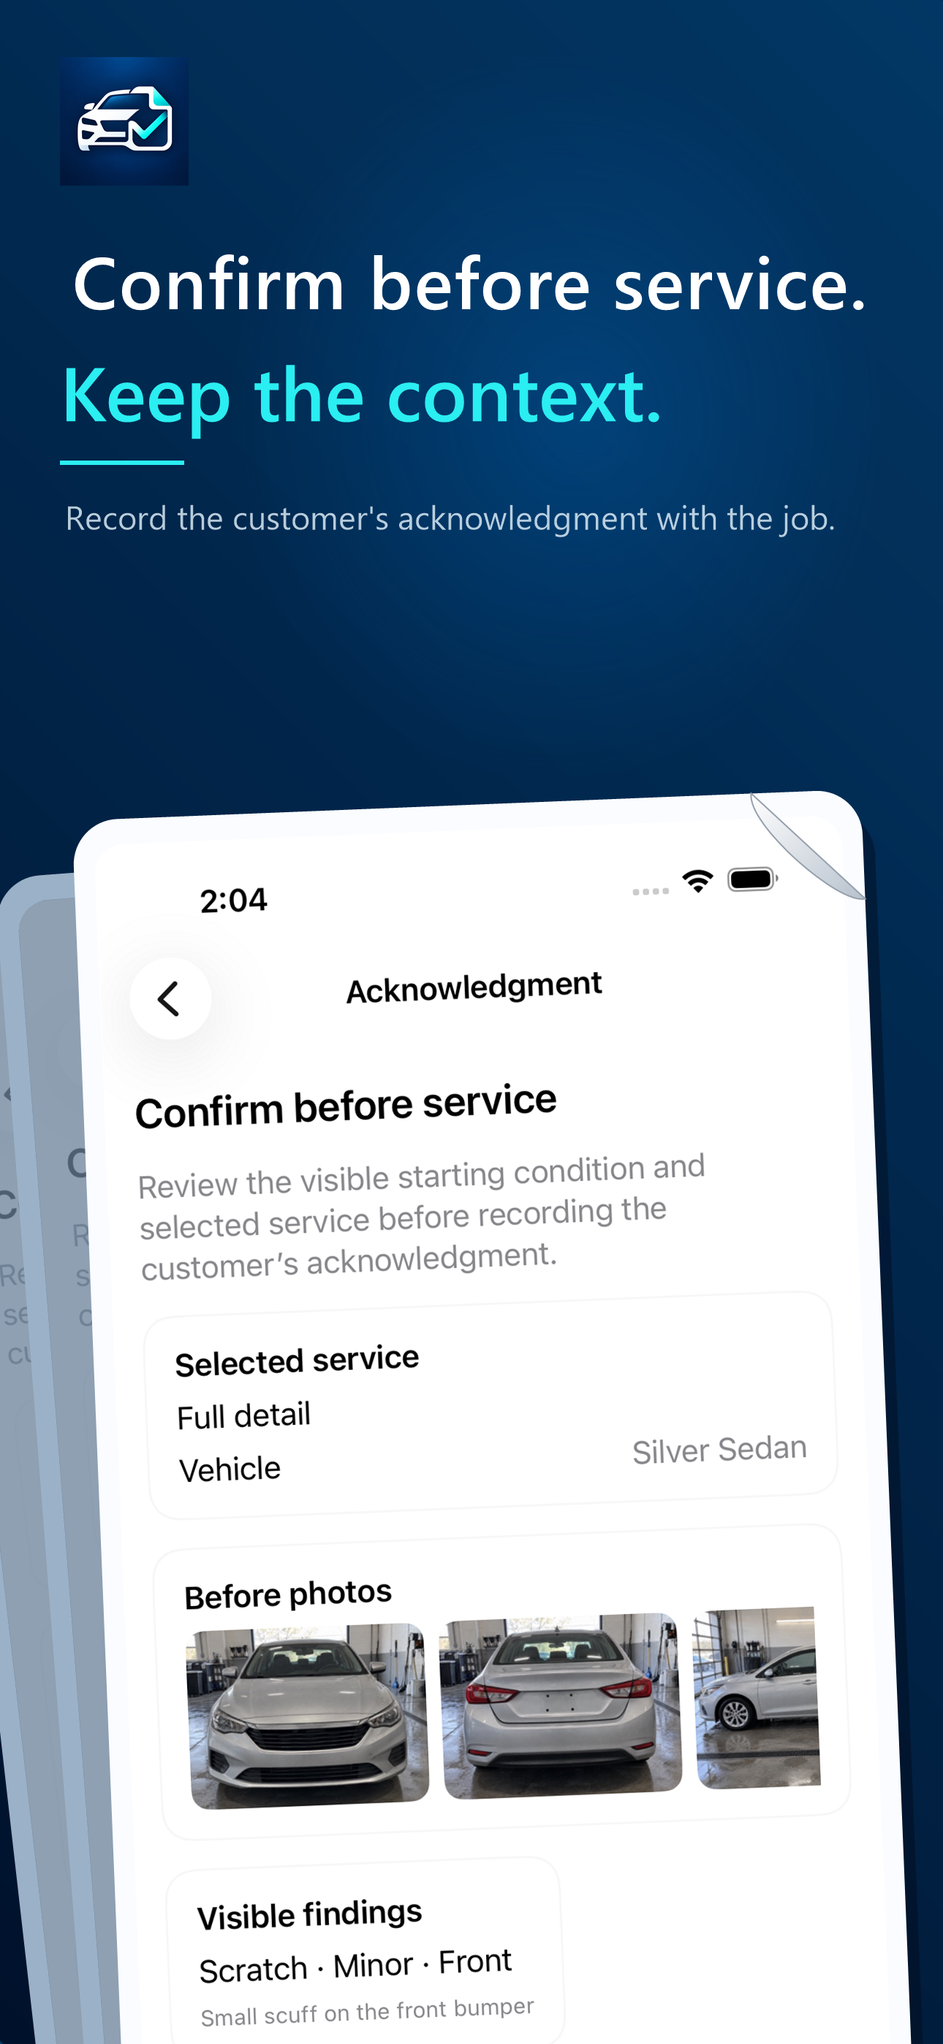
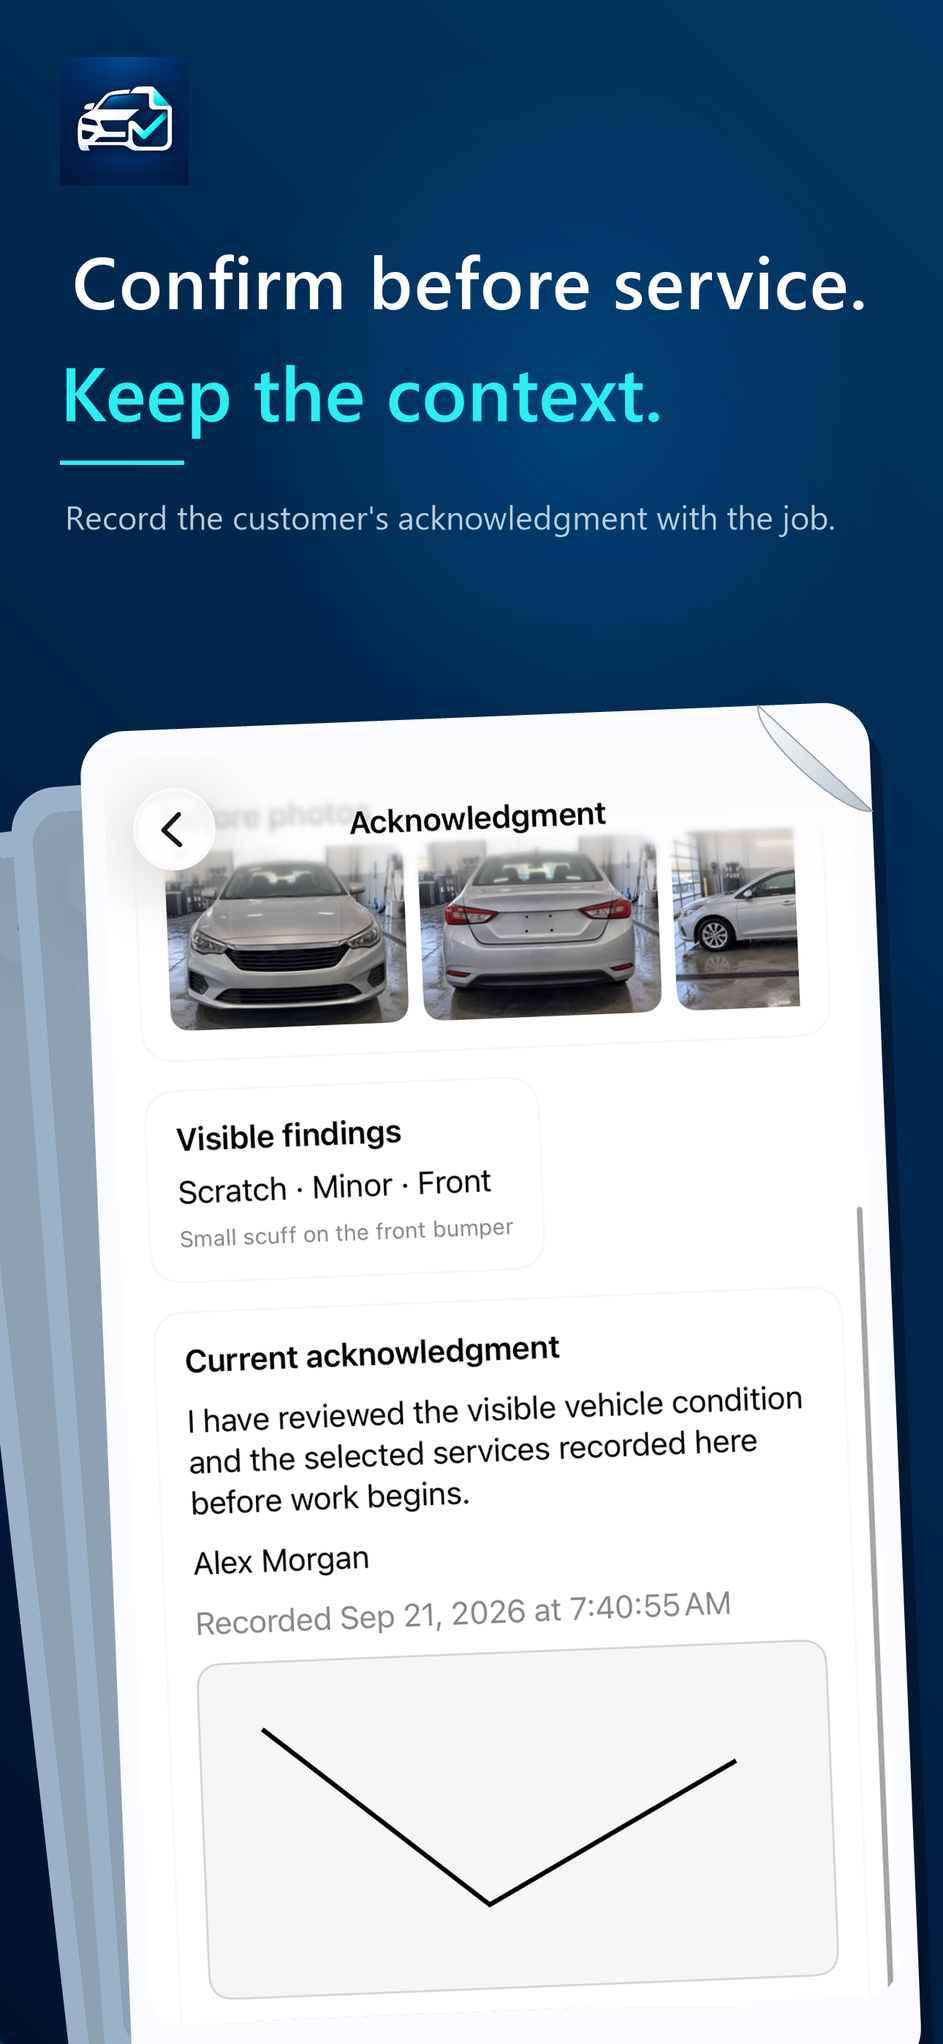
Finalize refreshed App Store screenshots

diff --git a/docs/release/acceptance.md b/docs/release/acceptance.md
@@ -4,7 +4,7 @@ Last updated: 2026-09-21
 
 ## Release decision
 
-**Current code-bearing merged-main baseline passed automated checks; not yet App Store release-ready.** CI [`35556722554`](https://github.com/aiden609906-sketch/DetailHandoff/actions/runs/35556722554) built merge commit `63890ad`, passed 149/0 unit tests and 13/0 UI tests on each selected iPhone and iPad simulator, verified screenshot fixture photos are absent from the Release build, and uploaded attachments. The 12 current draft store frames derive from the equivalent green candidate run `35514766784` and were visually reviewed; see `app-store-creative-audit-2026-09-21.md`. Saving a Files export, physical offline/relaunch behavior, final screenshot creative approval, name clearance, signed-archive validation, App Store Connect business setup, TestFlight, and App Review remain open.
+**Current code-bearing merged-main baseline passed automated checks; not yet App Store release-ready.** CI [`35573487842`](https://github.com/aiden609906-sketch/DetailHandoff/actions/runs/35573487842) built commit `97d931f`, passed 149/0 unit tests and 13/0 UI tests on each selected iPhone and iPad simulator, verified screenshot fixture photos are absent from the Release build, and uploaded attachments. The 12 current store frames derive from that run and passed the documented creative review; see `app-store-creative-audit-2026-09-21.md`. Saving a Files export, physical offline/relaunch behavior, product-owner screenshot signoff, name clearance, signed-archive validation, App Store Connect business setup, TestFlight, and App Review remain open.
 
 Legend: **PASS** means the named behavior actually ran successfully in the cited run. **SOURCE** means the statement is supported by source inspection but not by the manual or external observation still named in that row. **MANUAL** is an external or physical check that automation cannot establish.
 
@@ -38,6 +38,9 @@ Legend: **PASS** means the named behavior actually ran successfully in the cited
 | [CI 35512749619](https://github.com/aiden609906-sketch/DetailHandoff/actions/runs/35512749619) | `a6e2aa4` | **PASS on candidate branch:** changed the test to tap the whole job-row button and excluded transient staging files from artifact upload. Build, both UI suites, attachment export, and artifact upload completed. Its screenshots were reviewed but superseded by the corrected-copy run below. |
 | [CI 35514766784](https://github.com/aiden609906-sketch/DetailHandoff/actions/runs/35514766784) | `b1d27eb` | **PASS on candidate branch:** simulator and Release builds, Release fixture exclusion, 149/0 unit tests, 13/0 iPhone UI tests, 13/0 iPad UI tests, attachment export, and upload. This is the exact source of the 12 current draft store PNGs; it is not a signed or physical-device release check. |
 | [CI 35556722554](https://github.com/aiden609906-sketch/DetailHandoff/actions/runs/35556722554) | `63890ad` | **PASS on merged `main`:** simulator and Release builds, Release fixture exclusion, 149/0 unit tests, 13/0 iPhone UI tests, 13/0 iPad UI tests, attachment export, and upload. This closes the integration check, not the physical-device, signing, or final creative gates. |
+| [CI 35558510036](https://github.com/aiden609906-sketch/DetailHandoff/actions/runs/35558510036) | `19073b5` | **Mixed:** builds, Release fixture exclusion, 149/0 unit tests, and iPad UI tests passed. The iPhone accessibility test remained on Jobs after a synthesized row tap. The preceding unchanged app code had passed; retained diagnostics identify an intermittent UI-automation navigation failure rather than a product-state regression. |
+| [CI 35569128934](https://github.com/aiden609906-sketch/DetailHandoff/actions/runs/35569128934) | `90838d4` | **PASS on merged `main`:** the accessibility test uses a center-coordinate tap with one bounded retry. Build, Release fixture exclusion, 149/0 unit tests, 13/0 iPhone UI tests, 13/0 iPad UI tests, attachment export, and upload passed. |
+| [CI 35573487842](https://github.com/aiden609906-sketch/DetailHandoff/actions/runs/35573487842) | `97d931f` | **PASS on merged `main`:** build, Release fixture exclusion, 149/0 unit tests, 13/0 UI tests on each simulator, attachment export, and upload. Its exact simulator captures are the source for the current 12 marketing PNGs, including the matching fictional bumper-scuff evidence and recaptured iPhone signature view. |
 
 The stable 40-photo PDF outputs and rendered QA pages remain outside product source under `.superpowers/sdd/2026-09-04-reports/ci-33848520274/` and `.superpowers/sdd/2026-09-04-reports/pdf-qa/`. They must not be relocated into the app bundle or deleted during release preparation.
 
@@ -124,11 +127,11 @@ CI `34560087867`, attempt 2, exported 30 attachments for each device class acros
 
 CI `34983689543`, attempt 2, exported iPhone and iPad test attachments after all 13 UI tests passed on each device class. The backup exporter assertion remains limited to the app-owned presentation boundary; these attachments have not been promoted to App Store marketing artwork.
 
-The current 12 App Store marketing PNGs derive from green CI `35514766784` and use fictional realistic vehicle photos rather than the former solid-color blocks. All 12 outputs were opened for visual review and passed opaque 24-bit RGB/dimension checks. The support placeholder and imprecise cloud wording remain absent. Final approval remains open because iPad frames 01/03/05 have excessive whitespace, iPhone frame 04 does not show the signature, and the finding photo is too small to independently establish the stated scuff. See `app-store-creative-audit-2026-09-21.md`.
+The current 12 App Store marketing PNGs derive from green CI `35573487842` and use fictional realistic vehicle photos rather than the former solid-color blocks. All 12 outputs were opened for visual review and passed opaque 24-bit RGB/dimension checks. The support placeholder and imprecise cloud wording remain absent. Focused iPad compositions resolve the former whitespace issue, iPhone frame 04 shows the complete saved signature, and frame 03 uses a matching close-up of the fictional bumper scuff. Creative review passes; product-owner signoff and all non-creative release gates remain open. See `app-store-creative-audit-2026-09-21.md`.
 
 ## Pending release gates
 
-- Preserve the current code-bearing merged-main baseline from CI `35556722554` when making release changes. The earlier intermittent iPhone sealed-report tap and candidate iPad navigation failure remain historical evidence; neither is erased by the green merged-main run. Final screenshot creative approval is separate from CI.
+- Preserve the current code-bearing merged-main baseline from CI `35573487842` when making release changes. Earlier intermittent synthesized-tap failures remain historical evidence; they are mitigated by bounded UI-test retries and are not erased by the green merged-main run. Product-owner screenshot approval is separate from CI and creative review.
 - Verify the privacy manifest in the signed release archive and validate its required-reason declaration against actual runtime behavior. The built simulator resource test is green.
 - Run physical iPhone and iPad tests for camera capture, photo permission states, cancellation, force-quit/interruption, airplane mode, rotation/multitasking, large Dynamic Type/VoiceOver, low storage, 40-photo performance, PDF viewers/share destinations, Files/iCloud/external backup restore, deletion, and cleanup. Use `physical-device-checklist.zh-CN.md` to record device and build evidence.
 - Establish Apple Developer membership, account owner, team, bundle identifier, certificates, profiles, signing, and release archive validation.

diff --git a/docs/release/app-store-creative-audit-2026-09-21.md b/docs/release/app-store-creative-audit-2026-09-21.md
@@ -1,30 +1,33 @@
 # App Store creative audit — 2026-09-21
 
-Scope: the six iPhone and six iPad draft marketing PNGs in `app-store-assets/`, regenerated from successful simulator CI [`35514766784`](https://github.com/aiden609906-sketch/DetailHandoff/actions/runs/35514766784) at commit `b1d27eb`. Every output was opened and inspected in this audit. This is a visual/content review, not an App Review, legal, or accessibility approval.
+Scope: the six iPhone and six iPad marketing PNGs in `app-store-assets/`, regenerated from successful merged-main simulator CI [`35573487842`](https://github.com/aiden609906-sketch/DetailHandoff/actions/runs/35573487842) at commit `97d931f`. Every output was opened and inspected after rendering. This is a visual/content review, not an App Review, legal, signed-build, physical-device, or accessibility approval.
 
 ## Decision
 
-**Keep the selected dark-navy direction and the new fictional vehicle imagery; do not upload this draft set yet.** The earlier solid-color evidence blocks and fixture-style vehicle name are gone, the headline spacing and single-photo grammar are corrected, and the privacy claim remains qualified. The iPad story still loses impact to empty app space, while the iPhone acknowledgment frame does not show the recorded signature. The finding text calls out a small scuff that cannot be verified from its tiny full-car thumbnail.
+**Creative review passes for the current English screenshot draft.** The selected dark-navy, white, and cyan direction remains consistent. The previously open composition issues are resolved: iPad frames 01, 03, and 05 use focused truthful crops instead of presenting broad empty app space; frame 03 uses a fictional close-up that visibly matches the bumper-scuff finding; and iPhone frame 04 shows the saved customer name, timestamp, and complete signature.
+
+The images may move to product-owner signoff and eventual App Store Connect upload after the remaining account, legal, signed-archive, and physical-device gates are complete. This decision does not claim Apple acceptance or name clearance.
 
 ## Six-step story
 
-| Step | Screen pair | Health | Evidence and next change |
+| Step | Screen pair | Health | Evidence |
 |---|---|---|---|
-| 1 | Professional record | Needs polish | Report actions are legible on iPhone; iPad places a small action group above a large empty white area. Use a denser, truthful report state for the iPad frame. |
-| 2 | Guided capture | Needs polish | A realistic fictional front photo replaces the color block, and `1 photo` is grammatical. One small photo beside several empty capture rows weakly supports “every angle”; capture a richer but accurate state. |
-| 3 | Findings | Needs revision | Severity, area, note, and supporting photo are visible. The whole-car thumbnail does not visibly substantiate the stated scuff; use a matching close-up or change the fictional finding to match the photo. The iPad frame is mostly empty. |
-| 4 | Acknowledgment | Needs revision | The iPad frame shows service, vehicle photos, customer name, timestamp, and signature. The iPhone frame stops above the signature, so it does not show the core action promised by the headline. Recapture the phone after scrolling to the acknowledgment. |
-| 5 | Seal and revise | Needs polish | Version, checksum, Preview, Share, and Create revision are visible. On iPad, the version card is small above a broad empty area; use a more focused truthful state. |
-| 6 | Local control | Acceptable with pre-upload recheck | The iPad Settings capture shows the system-backup caveat and support email. The iPhone capture crops those below the fold, while the marketing subtitle correctly limits “no cloud” to developer service. |
+| 1 | Professional record | Pass | Both devices show the report identity and the Preview, Seal, and acknowledgment actions. The iPad composition focuses the meaningful report region without altering the simulator UI. |
+| 2 | Guided capture | Pass with product note | The real capture screen shows the guided position list and a fictional vehicle photo. It demonstrates the workflow structure, not a completed twelve-angle job. |
+| 3 | Findings | Pass | Kind, severity, position, note, and supporting evidence are visible. The linked fictional close-up visibly shows the described minor front-bumper scuff. |
+| 4 | Acknowledgment | Pass | Both devices show recorded acknowledgment context. The iPhone composition now includes the saved customer, timestamp, and complete signature; the iPad view retains the broader service and evidence context. |
+| 5 | Seal and revise | Pass | Version identifier, sealed time, checksum, Preview, Share, and Create revision are visible. The iPad composition focuses the stored-version controls. |
+| 6 | Local control | Pass with pre-upload recheck | The privacy wording is limited to developer services. The iPad Settings capture also shows the system-backup caveat and support email. Recheck the published support/privacy URLs immediately before upload. |
 
-## Strengths and risks
+## Integrity and presentation checks
 
-- The selected icon, navy/white/cyan treatment, tilted-report composition, and six-part sequence remain consistent.
-- Source app UI comes from the actual simulator run; generated photos are fixture data, not AI-redrawn controls or real customer records. The photo catalog is excluded from the Release build.
-- Each pair is an opaque 24-bit RGB PNG at its intended 1290×2796 or 2048×2732 size.
-- At store-thumbnail size, iPad interface labels in frames 01, 03, and 05 will be hard to read. Screenshot inspection cannot prove VoiceOver behavior, contrast after storefront compression, or physical-device Dynamic Type/reflow.
-- “Scratch · Minor” describes fictional test data; the associated photo is too small to verify a real mark. Do not imply these images prove a documented real-world service outcome.
+- App UI is taken from the actual CI simulator captures. The renderer crops and frames those captures but does not redraw their controls or invent app states.
+- Vehicle imagery is fictional screenshot-fixture data. The close-up in frame 03 is synthetic demo evidence, not a real customer record or claimed service result.
+- CI verifies the screenshot-only photo catalog is excluded from the Release build.
+- All 12 outputs are opaque 24-bit RGB PNGs at 1290×2796 for iPhone or 2048×2732 for iPad.
+- No support placeholder, private customer data, real plate, third-party logo, or absolute “no backup/cloud anywhere” claim was observed.
+- Text remains readable in the reviewed native files; storefront compression and physical-device appearance remain outside this audit.
 
 ## Evidence limits
 
-The audit did not test App Store compression, signed builds, Apple review acceptance, VoiceOver, keyboard/focus order, rotation, split view, or physical camera behavior. No real customer/vehicle data or real Before/After service result was used. The 12 images are useful design drafts and CI-backed UI evidence, but final screenshot creative approval remains open.
+This audit does not test App Store compression, Apple review acceptance, VoiceOver, keyboard/focus order, rotation, split view, physical camera behavior, signed archives, or legal rights to the working product name. Product-owner approval remains required before upload, and every image must stay paired with the binary represented by CI `35573487842` or a later equivalently verified build.

diff --git a/docs/release/app-store.md b/docs/release/app-store.md
@@ -4,7 +4,7 @@ Last updated: 2026-09-21
 
 ## Submission status
 
-**Do not submit this revision yet.** Merged-main commit `63890ad` passed CI [`35556722554`](https://github.com/aiden609906-sketch/DetailHandoff/actions/runs/35556722554): app and Release builds, 149/0 unit tests, 13/0 UI tests on each selected iPhone and iPad simulator, screenshot-fixture exclusion, and attachment upload. The 12 App Store screenshots come from the equivalent green candidate run `35514766784`, but remain draft artwork after visual audit. Final screenshot creative approval, physical-device checks, legal name clearance, signed-archive validation, account-owned metadata, Paid Apps Agreement, tax/banking setup, TestFlight, and App Review remain open. No publication is claimed.
+**Do not submit this revision yet.** Merged-main commit `97d931f` passed CI [`35573487842`](https://github.com/aiden609906-sketch/DetailHandoff/actions/runs/35573487842): app and Release builds, 149/0 unit tests, 13/0 UI tests on each selected iPhone and iPad simulator, screenshot-fixture exclusion, and attachment upload. The 12 App Store screenshots come from this run and passed the documented creative review. Product-owner screenshot signoff, physical-device checks, legal name clearance, signed-archive validation, account-owned metadata, Paid Apps Agreement, tax/banking setup, TestFlight, and App Review remain open. No publication is claimed.
 
 ## Commercial configuration
 
@@ -43,12 +43,12 @@ Validate the camera permission prompt on physical iPhone and iPad for first deni
 ## Required creative assets
 
 - `Assets.xcassets/AppIcon.appiconset/AppIcon-1024.png` is the selected opaque 1024×1024 master and is referenced by `Contents.json`. Dimensions, RGB opacity, JSON syntax, and visual safe margins were checked locally; Xcode asset compilation and signed-archive validation remain required.
-- Draft English screenshot sets are in `docs/release/app-store-assets/iphone` (1290×2796) and `docs/release/app-store-assets/ipad` (2048×2732). They use the selected dark-navy Product Design direction and exact simulator captures from green CI `35514766784`, with realistic fictional vehicle photos but no AI-rewritten app UI. Release builds exclude the screenshot-only photo catalog.
-- The six-frame story covers report creation, guided Before capture, findings, acknowledgment, sealed revision history, and local-data/privacy controls. The current Product Design review is in `app-store-creative-audit-2026-09-21.md`: retain the chosen visual direction; improve iPad frames 01/03/05, show the signature on iPhone frame 04, and align the finding image with its claim before upload.
+- Draft English screenshot sets are in `docs/release/app-store-assets/iphone` (1290×2796) and `docs/release/app-store-assets/ipad` (2048×2732). They use the selected dark-navy Product Design direction and exact simulator captures from green CI `35573487842`, with realistic fictional vehicle photos but no AI-rewritten app UI. Release builds exclude the screenshot-only photo catalog.
+- The six-frame story covers report creation, guided Before capture, findings, acknowledgment, sealed revision history, and local-data/privacy controls. The current Product Design review is in `app-store-creative-audit-2026-09-21.md`. It passes the current creative draft after focused iPad framing, complete iPhone signature visibility, and a finding photo that matches the fictional scuff claim; product-owner signoff is still required.
 - Review every image at native resolution for cropping, Dynamic Type overflow, private information, placeholder data, misleading status, and device chrome.
 - Optional promotional art, preview video, and localization are not required by this handoff and have not been produced.
 
-The 27 PNGs from CI `33936741128` remain failure diagnostics, not store assets. CI `34803310219` is the superseded screenshot source; CI `35514766784` is the source of the current store set. All 12 current PNGs were visually inspected and passed dimension/opaque-RGB checks. The previous iPad frame-06 factual blocker is resolved; no final creative approval is claimed.
+The 27 PNGs from CI `33936741128` remain failure diagnostics, not store assets. Earlier screenshot sources are superseded; CI `35573487842` is the source of the current store set. All 12 current PNGs were visually inspected and passed dimension/opaque-RGB checks. The creative audit passes; product-owner approval and store upload remain open.
 
 ## Pre-membership checks (2026-09-14)
 
@@ -60,7 +60,7 @@ The 27 PNGs from CI `33936741128` remain failure diagnostics, not store assets. 
 
 ## Metadata and account checklist
 
-- [x] Obtain a green candidate run (CI `35514766784`, commit `b1d27eb`) and green merged-main run (CI `35556722554`, commit `63890ad`), each with 149 unit tests and 13 UI tests on both iPhone and iPad. Files saving/cancellation remains a physical-device check.
+- [x] Obtain a green merged-main run (CI `35573487842`, commit `97d931f`) with 149 unit tests and 13 UI tests on both iPhone and iPad. Files saving/cancellation remains a physical-device check.
 - [ ] Verify the archived `PrivacyInfo.xcprivacy` declares DiskSpace reason `E174.1` for the actual capture/import storage check, without tracking or collected-data claims beyond the implementation. The built simulator resource test has passed.
 - [x] Pass the Phase 1 on-disk migration fixture without losing baseline records (included in the 149-test run).
 - [ ] Complete physical iPhone and iPad camera, permissions, interruption, offline, accessibility, performance, Files/share, backup/restore, deletion, and low-storage checks using `physical-device-checklist.zh-CN.md`.
@@ -70,7 +70,7 @@ The 27 PNGs from CI `33936741128` remain failure diagnostics, not store assets. 
 - [x] Publish the privacy policy URL: `https://detailhandoff-support.aiden609906.chatgpt.site/privacy/`.
 - [ ] Complete category, age rating, copyright, seller/developer name, SKU, version/release notes, territories, paid-app price, App Store privacy responses, accessibility information, and export-compliance answers.
 - [x] Prepare length-validated U.S. English product-page copy and truthful App Review notes for the current binary.
-- [ ] Validate the selected 1024px icon and all asset warnings in the release archive; obtain final creative approval for the recaptured iPhone/iPad screenshots, then upload approved assets. Synthetic demo imagery is disclosed and isolated from Release builds, but iPad whitespace, iPhone acknowledgment visibility, and the finding-photo/text match remain creative review points.
+- [ ] Validate the selected 1024px icon and all asset warnings in the release archive; obtain product-owner signoff for the creatively reviewed iPhone/iPad screenshots, then upload approved assets. Synthetic demo imagery is disclosed and isolated from Release builds.
 - [ ] Add truthful reviewer notes describing local data, camera/photo selection, synthetic review data, backup/restore, and any non-obvious navigation. No demo account is required by current source because there is no login.
 - [ ] Accept paid-app and other business agreements; complete tax and banking information.
 - [ ] Recruit TestFlight users, distribute a signed build, capture feedback, fix release blockers, and retest. No TestFlight activity is claimed.
